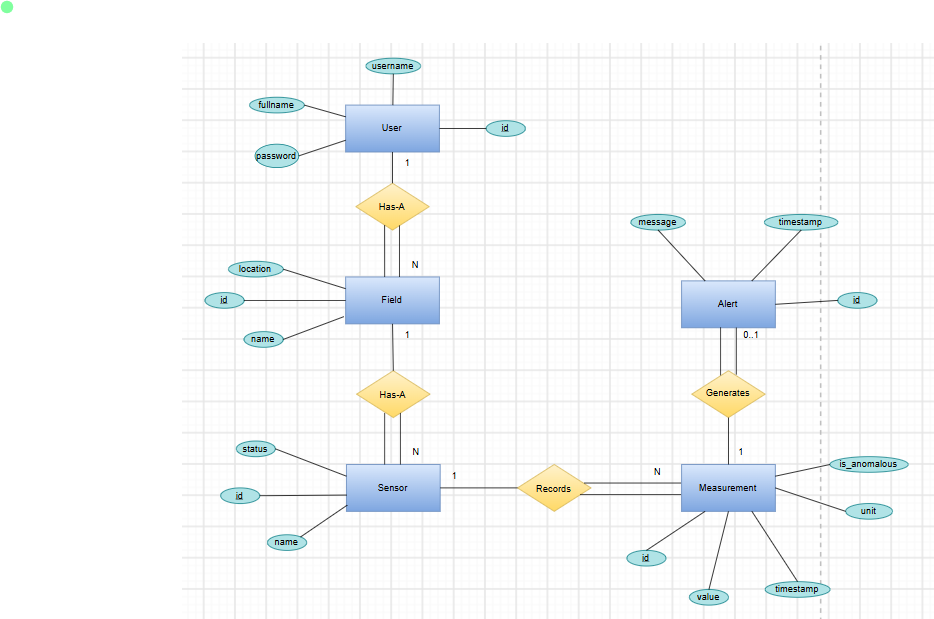
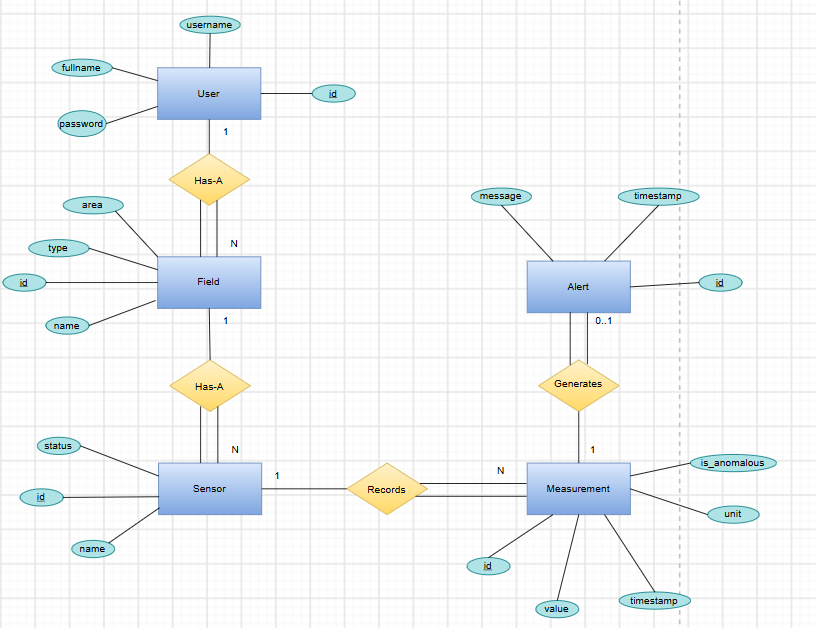
add database files in docs

diff --git a/docs/System_Design/LLD/database/database_design.md b/docs/System_Design/LLD/database/database_design.md
@@ -1,0 +1,134 @@
+# AgroMonitor — Database Design
+
+## 1. Relationships and Constraints
+
+The database follows the following relationships:
+
+```text
+User 1:N Field
+Field 1:N Sensor
+Sensor 1:N Measurement
+Measurement 1:0..1 Alert
+```
+
+### Alert → Measurement
+
+An `Alert` is associated directly with the `Measurement` that caused it:
+
+```text
+Alert.measurement_id
+    → Measurement.measurement_id
+```
+
+An alert conceptually originates from an anomalous measurement, which is already represented by `Measurement.is_anomalous`.
+
+Therefore, `Alert` does not store a `field_id` directly.
+
+This avoids:
+
+* **Redundancy** — the field can already be derived through `Measurement → Sensor → Field`.
+* **Data inconsistency** — storing `field_id` separately could cause the alert's field to differ from the field associated with its measurement.
+* **Unnecessary duplication** — the relationship to the field can be obtained through the existing foreign-key relationships.
+
+For example, alerts for a specific field can be retrieved through:
+
+```sql
+SELECT a.*
+FROM alert a
+JOIN measurement m ON a.measurement_id = m.measurement_id
+JOIN sensor s ON m.sensor_id = s.sensor_id
+JOIN field f ON s.field_id = f.field_id
+WHERE f.user_id = :user_id
+  AND f.field_id = :field_id;
+```
+
+This keeps the database normalized and makes `Measurement` the source of the alert relationship.
+
+---
+
+## 2. Delete Behavior
+
+Dependent records are deleted using cascading foreign keys.
+
+The dependency hierarchy is:
+
+```text
+User
+ └── Field
+      └── Sensor
+           └── Measurement
+                └── Alert
+```
+
+The corresponding foreign keys use `ON DELETE CASCADE`:
+
+```text
+Field.user_id
+    FK → User.user_id
+    ON DELETE CASCADE
+
+Sensor.field_id
+    FK → Field.field_id
+    ON DELETE CASCADE
+
+Measurement.sensor_id
+    FK → Sensor.sensor_id
+    ON DELETE CASCADE
+
+Alert.measurement_id
+    FK → Measurement.measurement_id
+    ON DELETE CASCADE
+```
+
+This prevents orphan records. In particular, an `Alert` should not remain in the database after the `Measurement` from which it was generated has been deleted.
+
+Soft delete is not used because there is no requirement for retaining historical records of deleted Fields or Sensors.
+
+---
+
+## 3. Integrity Constraints
+
+The database enforces the following integrity rules:
+
+* Primary keys uniquely identify records.
+* Foreign keys maintain valid relationships between tables.
+* Required fields are defined as `NOT NULL`.
+* `Measurement.is_anomalous` is a boolean value.
+* `Measurement.timestamp` and `Alert.timestamp` store event times.
+* `Field.area` must be non-negative.
+* A `Measurement` cannot reference a non-existent `Sensor`.
+* An `Alert` cannot reference a non-existent `Measurement`.
+* Cascading deletes prevent dependent records from becoming orphaned.
+
+---
+
+## 4. Indexing Notes
+
+The target RDBMS is **PostgreSQL**, which does not automatically create an index on foreign key columns.
+
+Since foreign keys are used extensively for joins (`Field → Sensor → Measurement → Alert`) and for alert-retrieval queries, the following columns should be explicitly indexed during implementation:
+
+* `Field.user_id`
+* `Sensor.field_id`
+* `Measurement.sensor_id`
+* `Alert.measurement_id`
+
+A composite index on `Measurement(sensor_id, timestamp)` should also be considered, since a primary access pattern for measurements is retrieving recent readings for a given sensor within a time range.
+
+Exact index definitions, SQLAlchemy models, migrations, and connection configuration are handled during implementation.
+
+---
+
+## 5. Schema Reference
+
+Column definitions and data types for each entity are defined in `api_design.md` and reflected in the relational/ER diagrams.
+
+This document focuses on:
+
+* relational structure
+* primary and foreign-key relationships
+* integrity constraints
+* delete behavior
+* indexing considerations
+
+Column-level implementation details are intentionally handled separately during database implementation.
